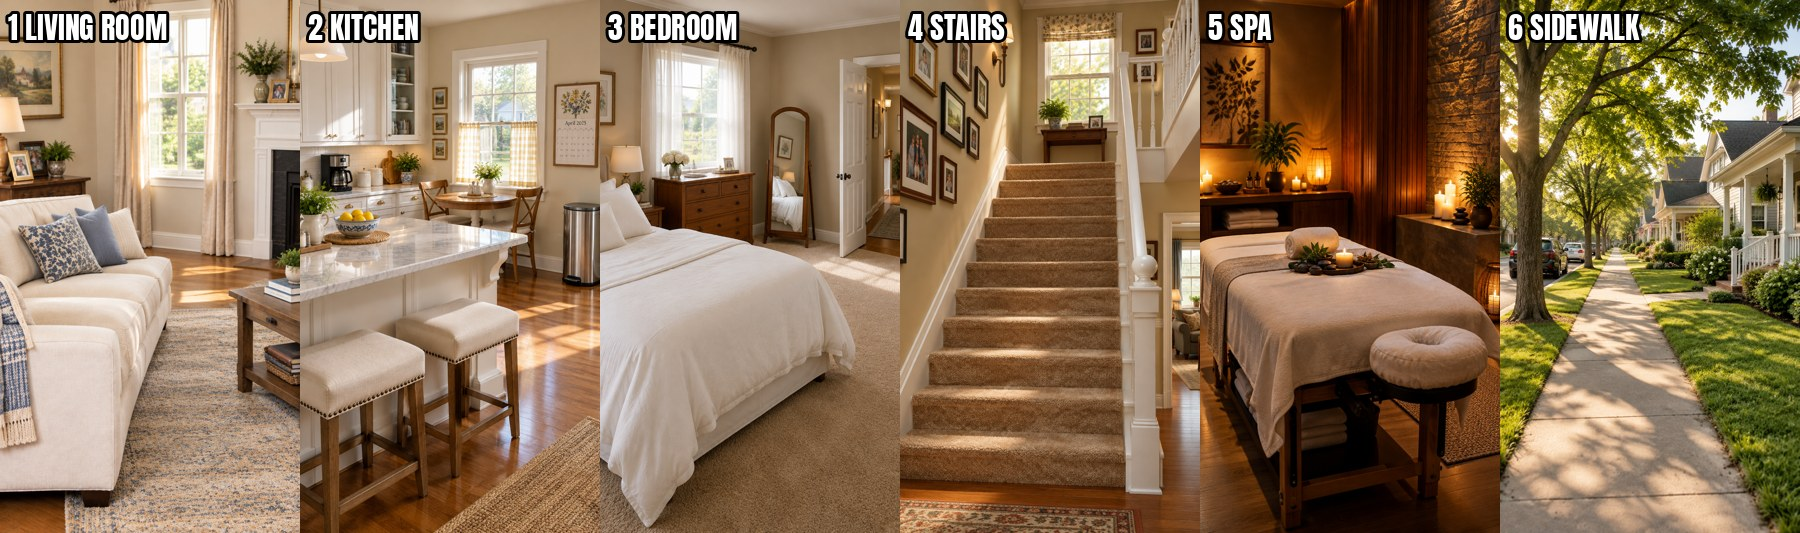
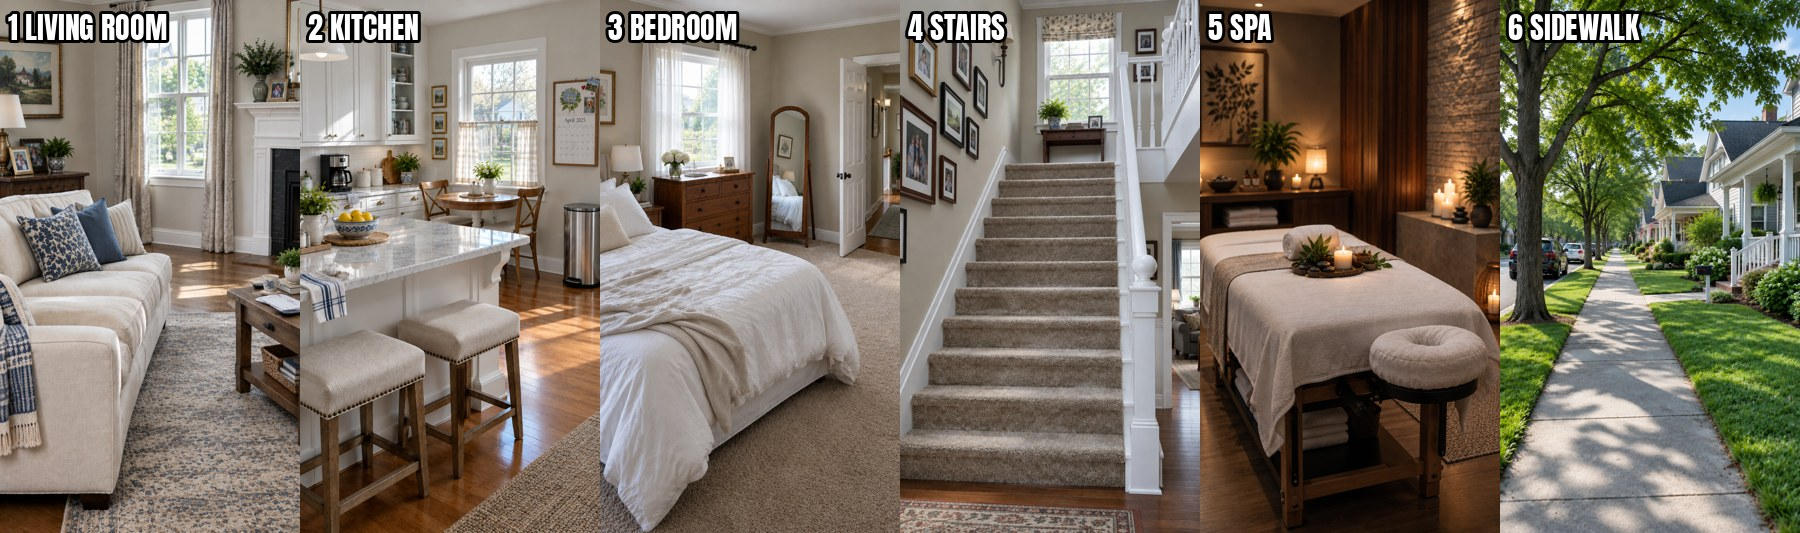
Body Swap: realistic setting masters v2
Claude-Session: https://claude.ai/code/session_01B91YnQnevLKqPhwBUBVUWL

diff --git a/projects/ora-body-swap/characters.md b/projects/ora-body-swap/characters.md
@@ -5,9 +5,9 @@ Voice rule: voice = who is inside. Seq 1-6 swapped, Seq 7 own voices.
 
 ## LOCKED masters (user: gen) — JESS c2a9d491, DIANE a1e46ce5
 ## SETTINGS (pending)
-| LIVING ROOM | e0861738-57d1-4383-ab74-64654faa3fe3 |
-| KITCHEN | 8876959f-df2f-4562-8695-cda97023e9f8 |
-| BEDROOM | 770c9761-b461-4a95-a911-196da1aebf1c |
-| STAIRS | 5a8a9cb9-21fb-407c-872b-6f63deab2db6 |
-| SPA | 21a8bbeb-de52-4c30-b3b0-ce8394268992 |
-| SIDEWALK | a7350b2a-2801-492a-87e6-3667cf12c787 |
+| LIVING ROOM | 20ad04af-fe98-4c5a-97be-bd08a9d660c1 (v2 realistic) |
+| KITCHEN | 37bc5322-67c5-43c7-b7a5-56e388f0cbbc (v2 realistic) |
+| BEDROOM | bd0fb870-266d-46c8-b179-0459d9665d86 (v2 realistic) |
+| STAIRS | 28ce0bf9-62ad-4f07-b82e-1c594e2e6a7c (v2 realistic) |
+| SPA | 6c4af5ae-891d-43f4-bcf0-7db291937690 (v2 realistic) |
+| SIDEWALK | f97c9d86-1084-4bbe-aad8-83578431aae2 (v2 realistic) |
